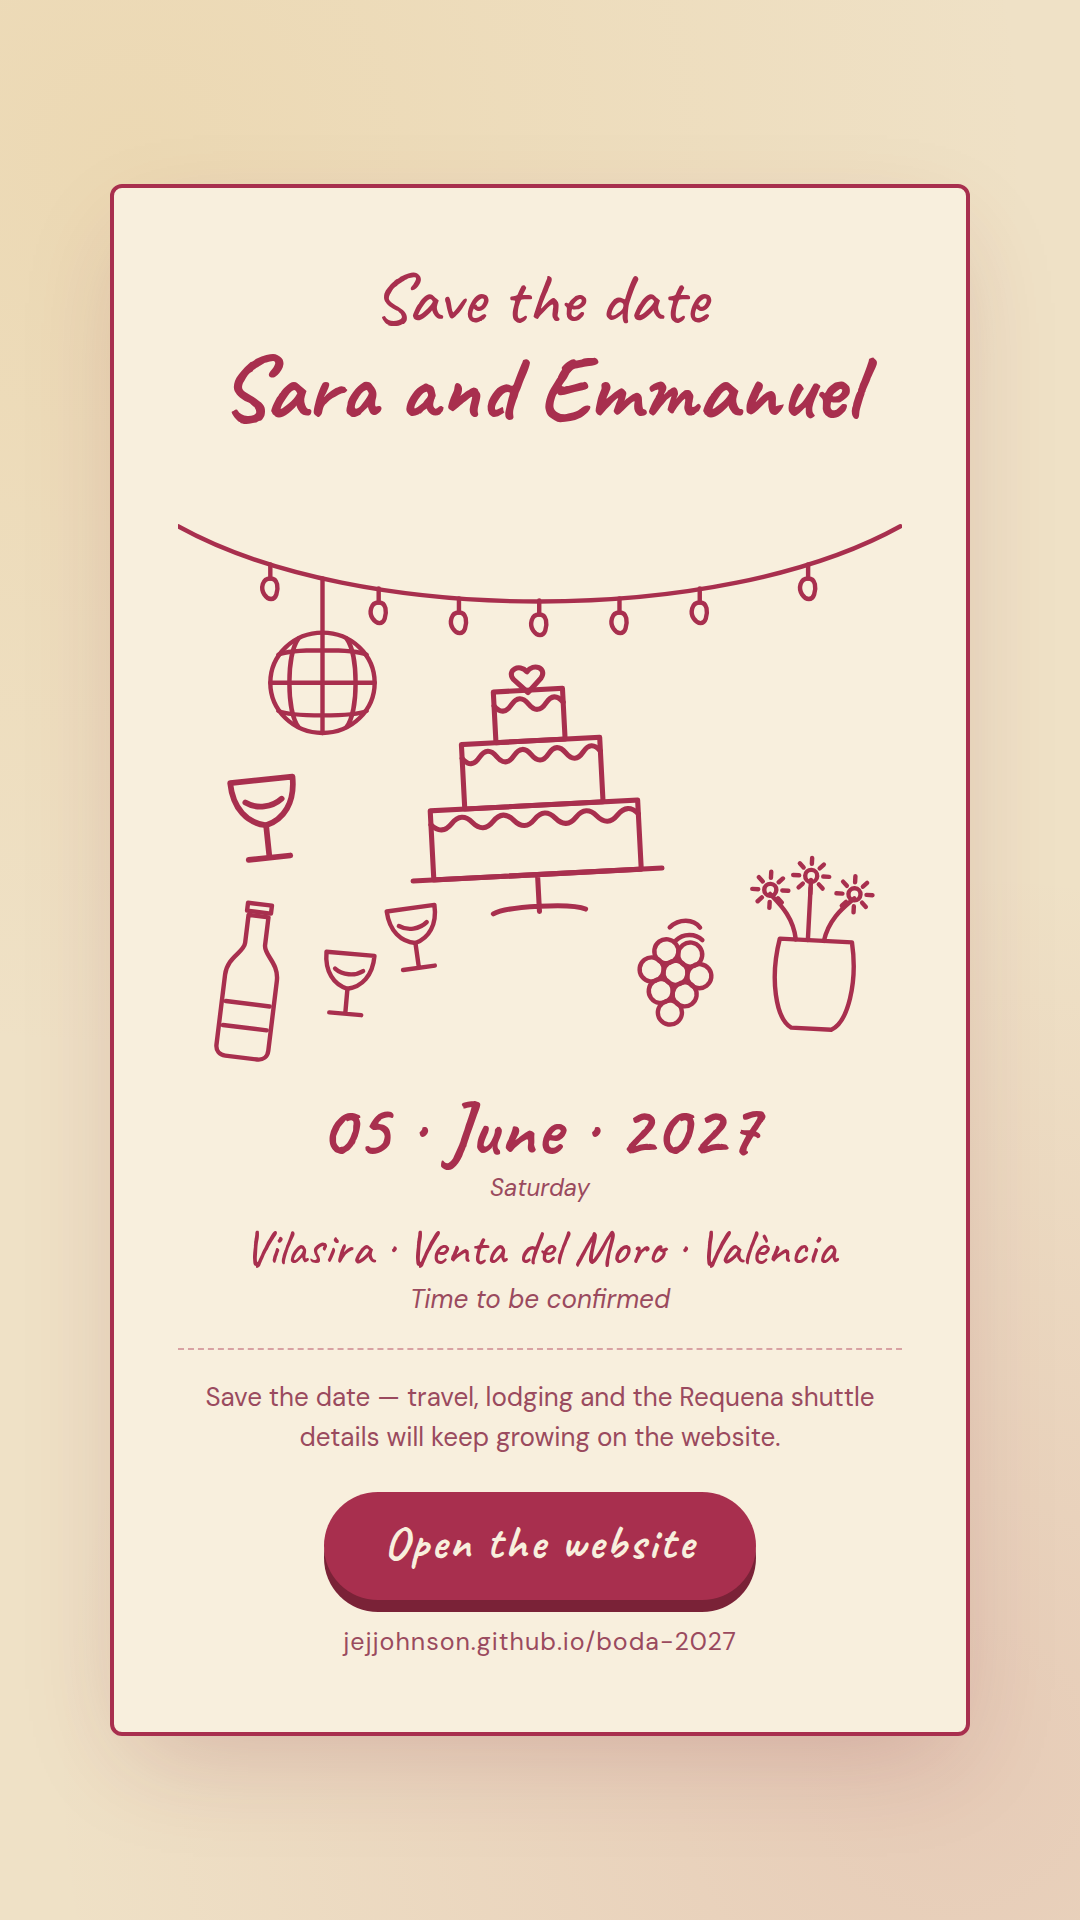
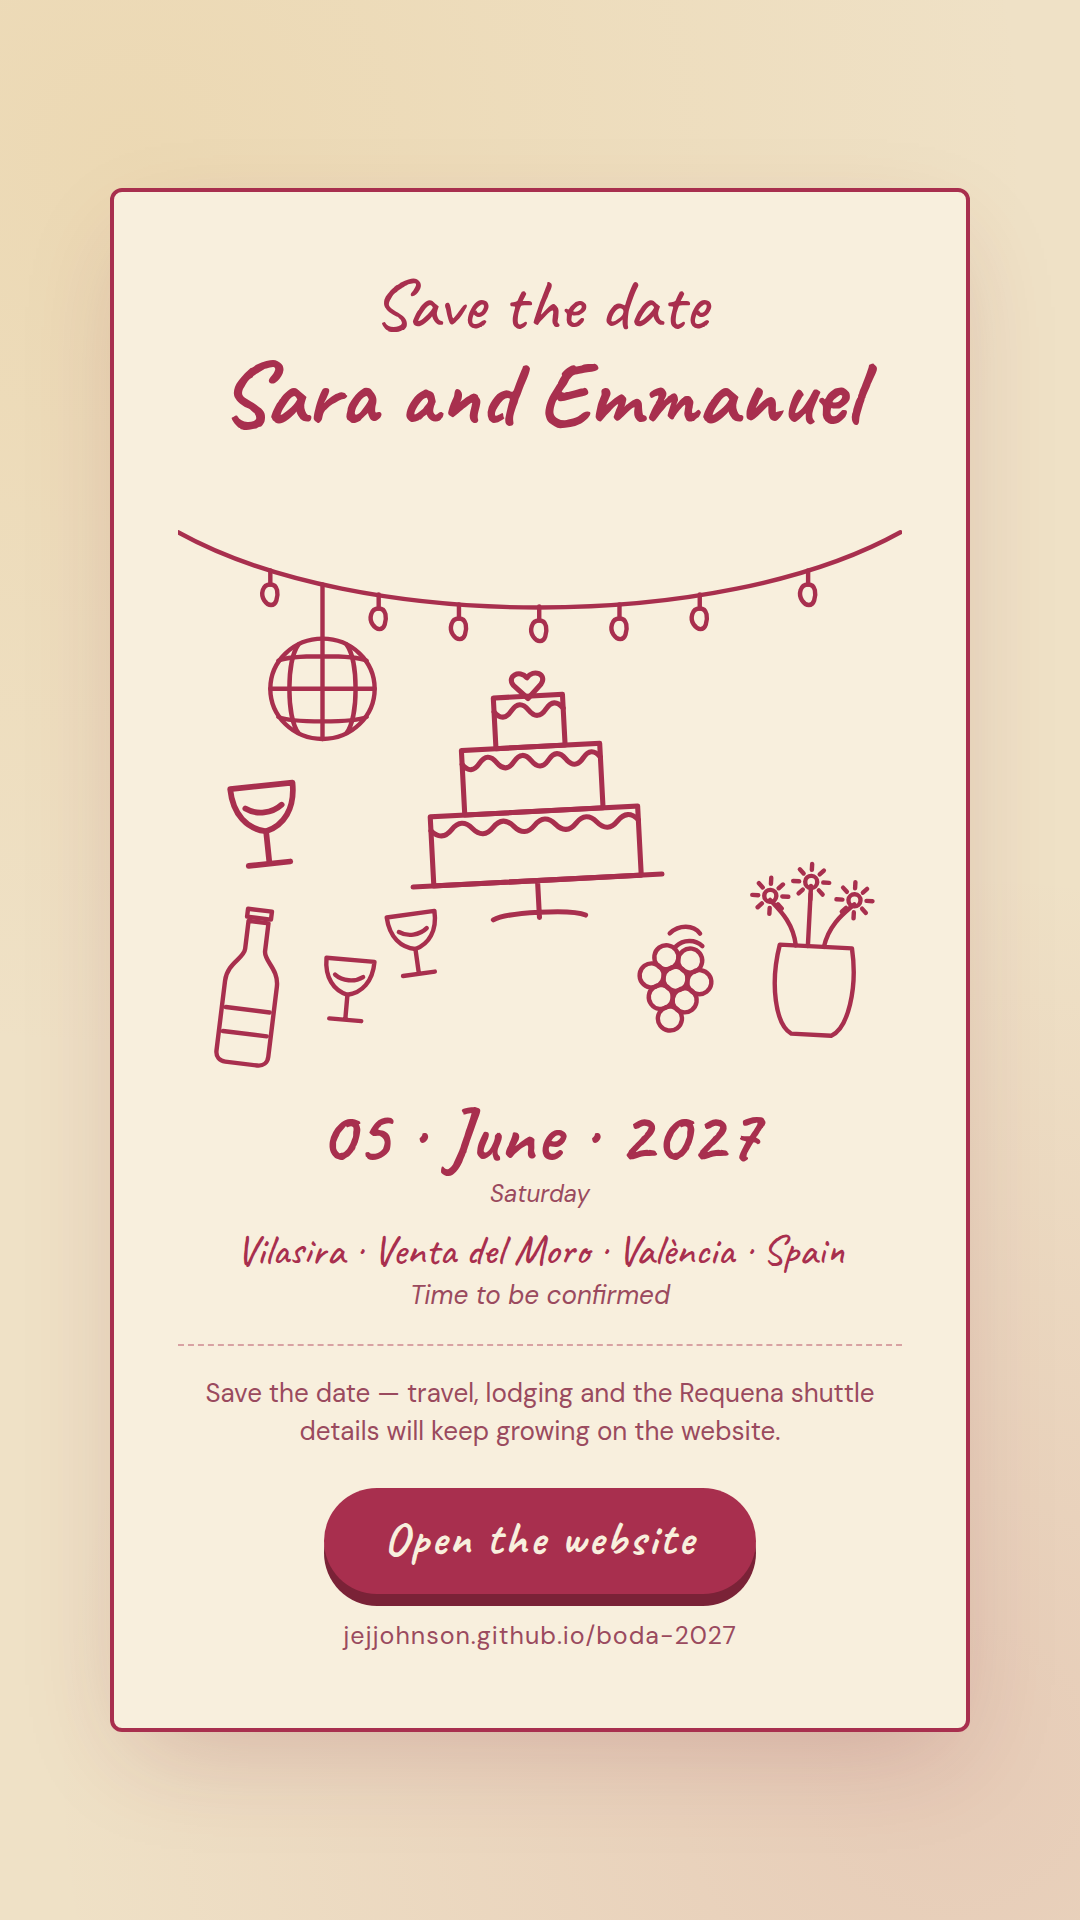
Ubicación con país: Vilasira · Venta del Moro · València · España/Spain (web y save-the-date)
Claude-Session: https://claude.ai/code/session_01XwbT1FLwweDD4ksXicNcTk

diff --git a/save-the-date/index.html b/save-the-date/index.html
@@ -21,8 +21,8 @@
   .scene{display:block;width:100%;height:auto;margin:6px 0 0}
   .hand-date{font-family:"Caveat",cursive;font-weight:700;font-size:clamp(30px,8.5vw,38px);line-height:1;text-align:center;color:var(--grape);margin-top:10px;letter-spacing:.02em}
   .hand-date small{display:block;font-family:"DM Sans",sans-serif;font-style:italic;font-weight:400;font-size:12px;letter-spacing:0;color:var(--sub);margin-top:4px}
-  .hand-where{font-family:"Caveat",cursive;font-weight:500;font-size:clamp(20px,5.8vw,25px);line-height:1.15;text-align:center;color:var(--grape);margin-top:10px}
-  .hand-where em{display:block;font-family:"DM Sans",sans-serif;font-style:italic;font-size:13px;color:var(--sub);margin-top:4px}
+  .hand-where{font-family:"Caveat",cursive;font-weight:500;font-size:clamp(16px,4.9vw,21px);white-space:nowrap;line-height:1.15;text-align:center;color:var(--grape);margin-top:10px}
+  .hand-where em{display:block;white-space:normal;font-family:"DM Sans",sans-serif;font-style:italic;font-size:13px;color:var(--sub);margin-top:4px}
   .cta{display:block;margin:18px auto 0;width:fit-content;background:var(--grape);color:var(--cream);text-decoration:none;
     font-family:"Caveat",cursive;font-weight:700;letter-spacing:.06em;font-size:clamp(20px,5.4vw,23px);padding:9px 30px 10px;border-radius:999px;
     box-shadow:0 6px 0 var(--grape-dark);transition:transform .12s ease,box-shadow .12s ease}
@@ -97,7 +97,7 @@
   </svg>
 
   <p class="hand-date">05 · <span data-lang="es">junio</span><span data-lang="en">June</span> · 2027<small><span data-lang="es">Sábado</span><span data-lang="en">Saturday</span></small></p>
-  <p class="hand-where">Vilasira · Venta del Moro · València<em><span data-lang="es">Hora por confirmar</span><span data-lang="en">Time to be confirmed</span></em></p>
+  <p class="hand-where">Vilasira · Venta del Moro · València · <span data-lang="es">España</span><span data-lang="en">Spain</span><em><span data-lang="es">Hora por confirmar</span><span data-lang="en">Time to be confirmed</span></em></p>
 
   <p class="note"><span data-lang="es">Guarda la fecha — toda la información (viaje, alojamiento, autobús desde Requena) irá creciendo en la web.</span><span data-lang="en">Save the date — travel, lodging and the Requena shuttle details will keep growing on the website.</span></p>
   <a class="cta" href="../"><span data-lang="es">Ver la web</span><span data-lang="en">Open the website</span></a>

diff --git a/index.html b/index.html
@@ -304,7 +304,7 @@
     <p class="kicker"><span data-lang="es">Guarda la fecha</span><span data-lang="en">Save the Date</span></p>
     <h1>Sara <span class="amp"><span data-lang="es">y</span><span data-lang="en">and</span></span> Emmanuel</h1>
     <p class="when">05 · <span data-lang="es">junio</span><span data-lang="en">June</span> · 2027</p>
-    <p class="where"><a href="https://vilasira.com/" target="_blank" rel="noopener" style="color:inherit;border-bottom:1px solid rgba(138,117,112,.5);text-decoration:none">Vilasira</a> · Venta del Moro · València</p>
+    <p class="where"><a href="https://vilasira.com/" target="_blank" rel="noopener" style="color:inherit;border-bottom:1px solid rgba(138,117,112,.5);text-decoration:none">Vilasira</a> · Venta del Moro · València · <span data-lang="es">España</span><span data-lang="en">Spain</span></p>
 
     <div class="count" id="count">
       <div><b id="cd-mo">—</b><span data-lang="es">meses</span><span data-lang="en">months</span></div>
@@ -496,7 +496,7 @@
   <p class="names">Sara <span data-lang="es">y</span><span data-lang="en">and</span> Emmanuel</p>
   <p style="font-family:'Caveat',cursive;font-size:15px;opacity:.9;letter-spacing:.04em">
      Sara Buezo-Montero <span data-lang="es">y</span><span data-lang="en">and</span> Juan Emmanuel Johnson</p>
-  <p>05 · <span data-lang="es">junio</span><span data-lang="en">June</span> · 2027 · <a class="lnk" href="https://vilasira.com/" target="_blank" rel="noopener">Vilasira</a>, Venta del Moro (València)</p>
+  <p>05 · <span data-lang="es">junio</span><span data-lang="en">June</span> · 2027 · <a class="lnk" href="https://vilasira.com/" target="_blank" rel="noopener">Vilasira</a>, Venta del Moro (València, <span data-lang="es">España</span><span data-lang="en">Spain</span>)</p>
   <div class="sep"></div>
   <p><span data-lang="es">¿Dudas? Escríbenos:</span><span data-lang="en">Questions? Message us:</span></p>
   <div class="contact">
